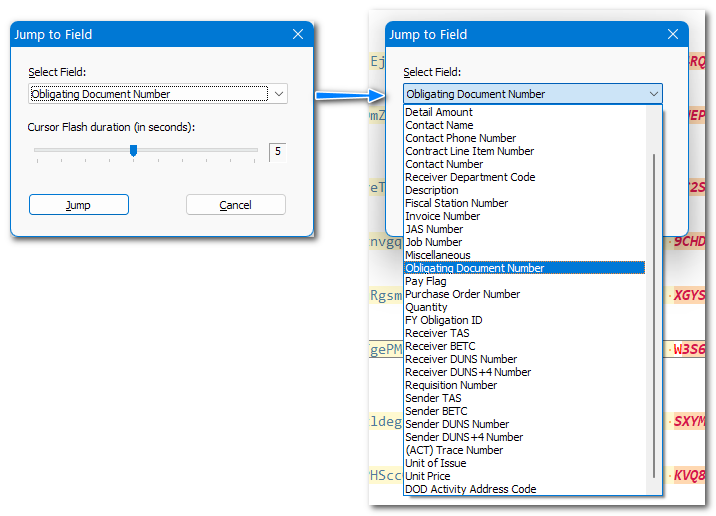
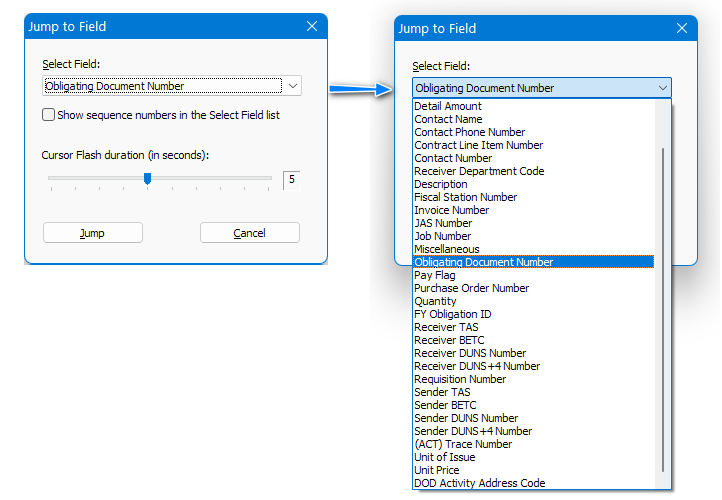
Moved Sequence Number pref. setting closer, into Jump to Field dialog

diff --git a/src/Dialogs/JumpToField.cpp b/src/Dialogs/JumpToField.cpp
@@ -9,6 +9,8 @@ void JumpToField::doDialog(HINSTANCE hInst) {
       create(IDD_JUMP_FIELD_DIALOG);
    }
 
+   CheckDlgButton(_hSelf, IDC_JUMP_FIELD_PREF_SEQ_NUM, _configIO.getPreferenceBool(PREF_JUMP_FIELD_SEQ, FALSE) ? BST_CHECKED : BST_UNCHECKED);
+
    hCaretFlash = GetDlgItem(_hSelf, IDC_JUMP_CARET_FLASH_SLIDER);
    SendMessage(hCaretFlash, TBM_SETRANGEMIN, FALSE, 1);
    SendMessage(hCaretFlash, TBM_SETRANGEMAX, FALSE, 10);
@@ -32,26 +34,14 @@ void JumpToField::refreshDarkMode() {
 void JumpToField::initDialog(const string fileType, int recordIndex, int fieldIndex, const vector<wstring>& fieldLabels) {
    initFileType = fileType;
    initRecordRegIndex = recordIndex;
+   cFieldLabels = fieldLabels;
 
    hFieldList = GetDlgItem(_hSelf, IDC_JUMP_FIELD_LIST);
-
-   SendMessage(hFieldList, CB_RESETCONTENT, NULL, NULL);
-
-   wchar_t seqNo[5];
-   bool showSeqNo{ (_configIO.getPreferenceBool(PREF_JUMP_FIELD_SEQ, FALSE)) };
-   int fieldCount{ static_cast<int>(fieldLabels.size()) };
-
-   for (int i{}; i < fieldCount; ++i) {
-      swprintf(seqNo, 5, L"%02d. ", (i + 1));
-      SendMessage(hFieldList, CB_ADDSTRING, NULL, (LPARAM)((showSeqNo ? seqNo : L"") + fieldLabels[i]).c_str());
-   }
-
-   if (fieldLabels.size() > 0)
-      Utils::setComboBoxSelection(hFieldList, fieldIndex < 0 ? 0 : fieldIndex);
+   loadJumpList(fieldIndex);
 
    int flashSecs{ _configIO.getPreferenceInt(PREF_CARET_FLASH, 5) };
    SendMessage(hCaretFlash, TBM_SETPOS, TRUE, flashSecs);
-   syncTbarToText(flashSecs);
+   setTbarPosition(flashSecs, FALSE);
 
    SetFocus(hFieldList);
 }
@@ -76,6 +66,10 @@ INT_PTR CALLBACK JumpToField::run_dlgProc(UINT message, WPARAM wParam, LPARAM lP
          }
          break;
 
+      case IDC_JUMP_FIELD_PREF_SEQ_NUM:
+         onJumpSeqNumPref();
+         break;
+
       case IDC_JUMP_FIELD_GO_BTN:
          onJumpBtnClick();
          break;
@@ -83,7 +77,7 @@ INT_PTR CALLBACK JumpToField::run_dlgProc(UINT message, WPARAM wParam, LPARAM lP
       break;
 
    case WM_HSCROLL:
-      if (lParam == (LPARAM)hCaretFlash) syncTbarToText();
+      if (lParam == (LPARAM)hCaretFlash) setTbarPosition(getTbarPosition(), TRUE);
       break;
 
    case WM_INITDIALOG:
@@ -114,13 +108,37 @@ INT_PTR CALLBACK JumpToField::run_dlgProc(UINT message, WPARAM wParam, LPARAM lP
 void JumpToField::localize() {
    SetWindowText(_hSelf, JUMP_FIELD_DIALOG_TITLE);
    SetDlgItemText(_hSelf, IDC_JUMP_FIELD_LABEL, JUMP_FIELD_SELECT_LABEL);
+   SetDlgItemText(_hSelf, IDC_JUMP_FIELD_PREF_SEQ_NUM, JUMP_FIELD_PREF_SEQ_NUM);
    SetDlgItemText(_hSelf, IDC_JUMP_CARET_FLASH_LABEL, JUMP_LABEL_CARET_FLASH);
    SetDlgItemText(_hSelf, IDC_JUMP_FIELD_GO_BTN, JUMP_FIELD_GO_BTN);
    SetDlgItemText(_hSelf, IDCLOSE, JUMP_FIELD_CLOSE_BTN);
 }
 
+void JumpToField::loadJumpList(int fieldIndex) {
+   if (fieldIndex < 0)
+      fieldIndex = static_cast<int>(SendMessage(hFieldList, CB_GETCURSEL, 0, 0));
+
+   SendMessage(hFieldList, CB_RESETCONTENT, NULL, NULL);
+
+   wchar_t seqNo[5];
+   bool showSeqNo{ (_configIO.getPreferenceBool(PREF_JUMP_FIELD_SEQ, FALSE)) };
+   int fieldCount{ static_cast<int>(cFieldLabels.size()) };
+
+   for (int i{}; i < fieldCount; ++i) {
+      swprintf(seqNo, 5, L"%02d. ", (i + 1));
+      SendMessage(hFieldList, CB_ADDSTRING, NULL, (LPARAM)((showSeqNo ? seqNo : L"") + cFieldLabels[i]).c_str());
+   }
+
+   if (fieldCount > 0)
+      Utils::setComboBoxSelection(hFieldList, fieldIndex < 0 ? 0 : fieldIndex);
+}
+
+void JumpToField::onJumpSeqNumPref() {
+   _configIO.setPreferenceBool(PREF_JUMP_FIELD_SEQ, (IsDlgButtonChecked(_hSelf, IDC_JUMP_FIELD_PREF_SEQ_NUM) == BST_CHECKED));
+   loadJumpList();
+}
+
 void JumpToField::onJumpBtnClick() {
-   _configIO.setPreferenceInt(PREF_CARET_FLASH, getTbarPosition());
    display(FALSE);
 
    _vizPanel.jumpToField(initFileType, initRecordRegIndex,
@@ -131,6 +149,7 @@ int JumpToField::getTbarPosition() {
    return static_cast<int>(SendMessage(hCaretFlash, TBM_GETPOS, 0, 0));
 }
 
-void JumpToField::syncTbarToText(int optVal) {
-   SetDlgItemInt(_hSelf, IDC_JUMP_CARET_FLASH_VALUE, (optVal ? optVal : getTbarPosition()), FALSE);
+void JumpToField::setTbarPosition(int val, bool savePref) {
+   SetDlgItemInt(_hSelf, IDC_JUMP_CARET_FLASH_VALUE, val, FALSE);
+   if (savePref) _configIO.setPreferenceInt(PREF_CARET_FLASH, val);
 }

diff --git a/src/Resources/localization.h b/src/Resources/localization.h
@@ -226,7 +226,6 @@
 #define PREFERENCES_CLEARVIZ_AUTO   L"\"Clear\" button click unchecks Auto-detect File Type"
 #define PREFERENCES_CLEARVIZ_PANEL  L"Closing plugin panel clears visualization"
 #define PREFERENCES_MBCHARS_STATE   L"Show Multi-byte checkbox in plugin panel"
-#define PREFERENCES_JUMP_FIELD_SEQ  L"Show sequence numbers in Jump To Field list"
 #define PREFERENCES_CLOSE_BTN       L"&Close"
 #define PREF_CLEARVIZ_AUTO_TIP      L"● When this box is unchecked, clicking the \"Clear\" button will redo the auto-file detection, followed by document visualization.\r\n\r\n● When this box is checked, clicking the \"Clear\" button will also uncheck the \"Auto-detect File Type\" checkbox, and also clear the document visualization."
 #define PREF_CLEARVIZ_PANEL_TIP      L"● Leave this box unchecked if you are only closing the plugin panel for more document viewing area but wish to retain the document visualization.\r\n\r\n● When this box is checked, closing the plugin panel will also clear the document visualization."
@@ -236,9 +235,10 @@
 // Jump Field Dialog
 #define JUMP_FIELD_DIALOG_TITLE     L"Jump to Field"
 #define JUMP_FIELD_SELECT_LABEL     L"&Select Field:"
+#define JUMP_FIELD_PREF_SEQ_NUM     L"Show sequence numbers in the Select Field list"
+#define JUMP_LABEL_CARET_FLASH      L"Cursor Flash duration (in seconds)"
 #define JUMP_FIELD_GO_BTN           L"&Jump"
 #define JUMP_FIELD_CLOSE_BTN        L"&Cancel"
-#define JUMP_LABEL_CARET_FLASH      L"Cursor Flash duration (in seconds)"
 #define JUMP_TIP_CARET_FLASH        L"When the cursor is set at its default width of '1', it can be hard to spot the cursor at its new position. To aid quick spotting, the cursor is briefly set to block mode at the destination position.\r\n\r\nSpecify the number of seconds to have the cursor flashing in block mode at the destination position."
 
 

diff --git a/src/Dialogs/PreferencesDialog.cpp b/src/Dialogs/PreferencesDialog.cpp
@@ -14,7 +14,6 @@ void PreferencesDialog::doDialog(HINSTANCE hInst) {
    initCheckbox(IDC_PREF_CLEARVIZ_AUTO, PREF_CLEARVIZ_AUTO, FALSE);
    initCheckbox(IDC_PREF_CLEARVIZ_PANEL, PREF_CLEARVIZ_PANEL, FALSE);
    initCheckbox(IDC_PREF_MBCHARS_STATE, PREF_MBCHARS_SHOW, FALSE);
-   initCheckbox(IDC_PREF_JUMP_FIELD_SEQ_NUM, PREF_JUMP_FIELD_SEQ, FALSE);
 
    Utils::addTooltip(_hSelf, IDC_PREF_CLEARVIZ_AUTO, NULL, PREF_CLEARVIZ_AUTO_TIP, PREF_TIP_LONG, TRUE);
    Utils::addTooltip(_hSelf, IDC_PREF_CLEARVIZ_PANEL, NULL, PREF_CLEARVIZ_PANEL_TIP, PREF_TIP_LONG, TRUE);
@@ -51,10 +50,6 @@ INT_PTR PreferencesDialog::run_dlgProc(UINT message, WPARAM wParam, LPARAM lPara
       case IDC_PREF_MBCHARS_STATE:
          setCheckbox(IDC_PREF_MBCHARS_STATE, PREF_MBCHARS_SHOW);
          _vizPanel.initMBCharsCheckbox();
-         break;
-
-      case IDC_PREF_JUMP_FIELD_SEQ_NUM:
-         setCheckbox(IDC_PREF_JUMP_FIELD_SEQ_NUM, PREF_JUMP_FIELD_SEQ);
          break;
 
       case IDC_PREF_FOLD_LINE_COLOR:
@@ -112,7 +107,6 @@ void PreferencesDialog::localize() {
    SetDlgItemText(_hSelf, IDC_PREF_CLEARVIZ_AUTO, PREFERENCES_CLEARVIZ_AUTO);
    SetDlgItemText(_hSelf, IDC_PREF_CLEARVIZ_PANEL, PREFERENCES_CLEARVIZ_PANEL);
    SetDlgItemText(_hSelf, IDC_PREF_MBCHARS_STATE, PREFERENCES_MBCHARS_STATE);
-   SetDlgItemText(_hSelf, IDC_PREF_JUMP_FIELD_SEQ_NUM, PREFERENCES_JUMP_FIELD_SEQ);
    SetDlgItemText(_hSelf, IDCLOSE, PREFERENCES_CLOSE_BTN);
 }
 

diff --git a/src/Resources/control_ids.h b/src/Resources/control_ids.h
@@ -218,6 +218,7 @@
 #define IDC_JUMP_CARET_FLASH_SLIDER     9424
 #define IDC_JUMP_CARET_FLASH_VALUE      9425
 #define IDC_JUMP_FIELD_GO_BTN           9426
+#define IDC_JUMP_FIELD_PREF_SEQ_NUM     9427
 
 
 #define IDD_DATA_EXTRACT_DIALOG         9500
@@ -350,7 +351,6 @@
 #define IDC_PREF_CLEARVIZ_AUTO          9901
 #define IDC_PREF_CLEARVIZ_PANEL         9902
 #define IDC_PREF_MBCHARS_STATE          9903
-#define IDC_PREF_JUMP_FIELD_SEQ_NUM     9904
 #define IDC_PREF_FOLD_LINE_GROUP_BOX    9910
 #define IDC_PREF_FOLD_LINE_COLOR        9911
 #define IDC_PREF_FOLD_LINE_ALPHA_SLIDER 9912

diff --git a/src/Dialogs/JumpToField.h b/src/Dialogs/JumpToField.h
@@ -19,11 +19,14 @@ private:
    string initFileType{};
    int initRecordRegIndex{};
    HWND hFieldList{}, hCaretFlash{};
+   vector<wstring> cFieldLabels{};
 
    INT_PTR CALLBACK run_dlgProc(UINT message, WPARAM wParam, LPARAM lParam);
    void localize();
+   void loadJumpList(int fieldIndex = -1);
+   void onJumpSeqNumPref();
    void onJumpBtnClick();
 
    int getTbarPosition();
-   void syncTbarToText(int optVal = FALSE);
+   void setTbarPosition(int val, bool savePref);
 };
